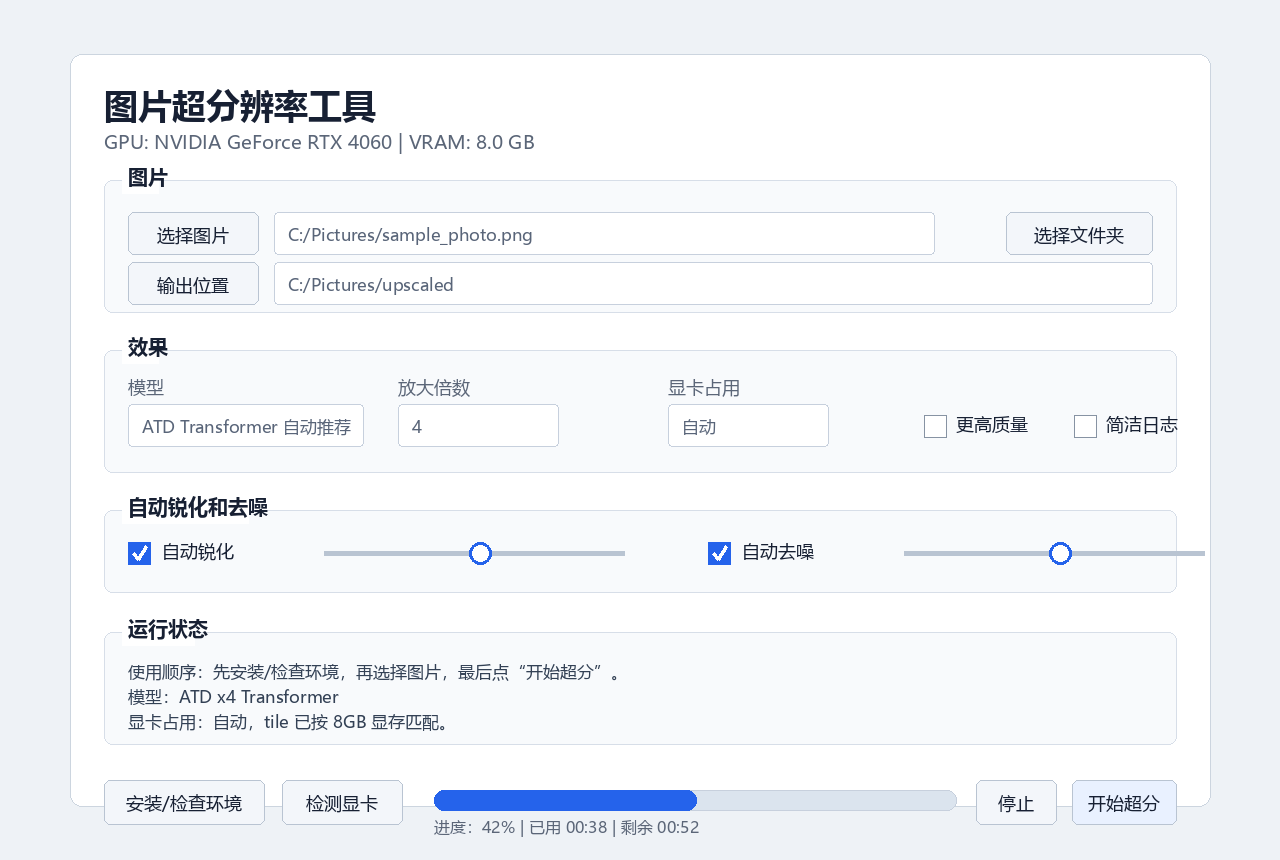
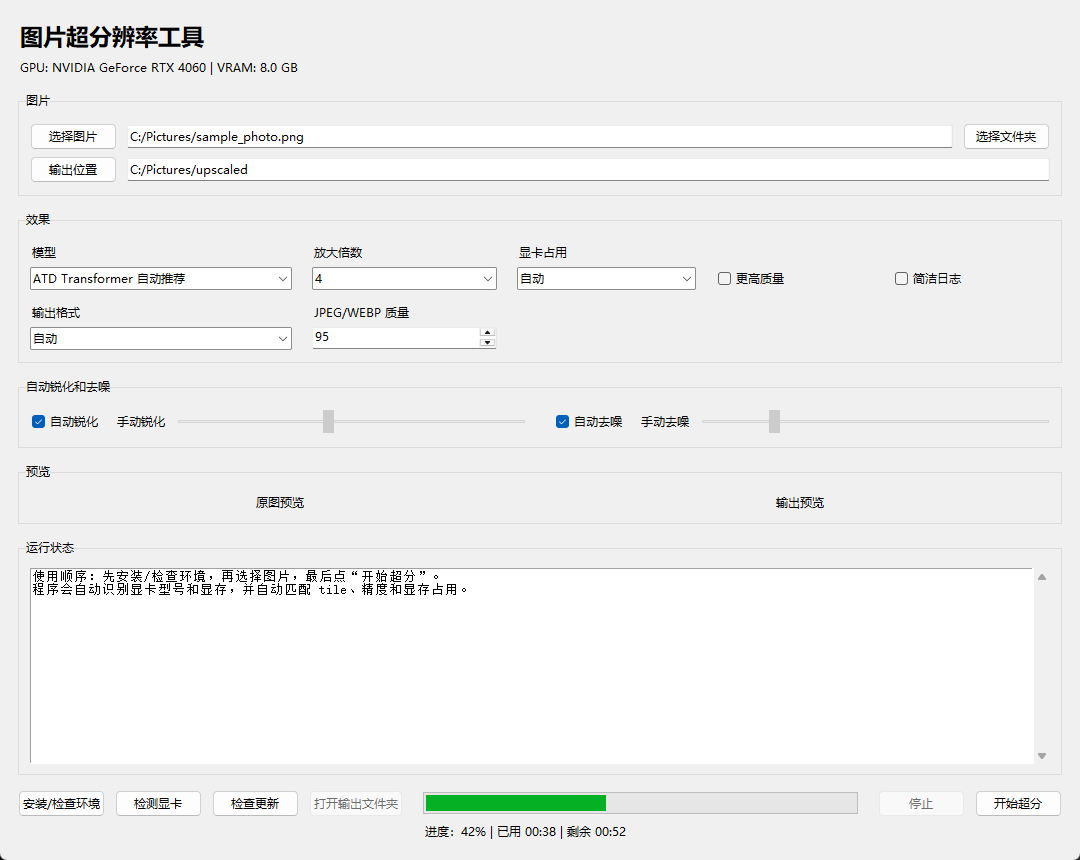
Update v1.0.2 release assets

diff --git a/tools/check_project.py b/tools/check_project.py
@@ -80,7 +80,7 @@ def check_installer_constants() -> None:
     for asset in ["image-super-resolution-tool-full.zip.001", "image-super-resolution-tool-full.zip.002"]:
         if asset not in text:
             fail(f"installer script does not reference {asset}")
[1 lines of base64/hex data omitted]
+    if not re.search(r'\$expectedZipHash\s*=\s*"[0-9A-F]{64}"', text):
         fail("installer script is missing final package hash")
 
 